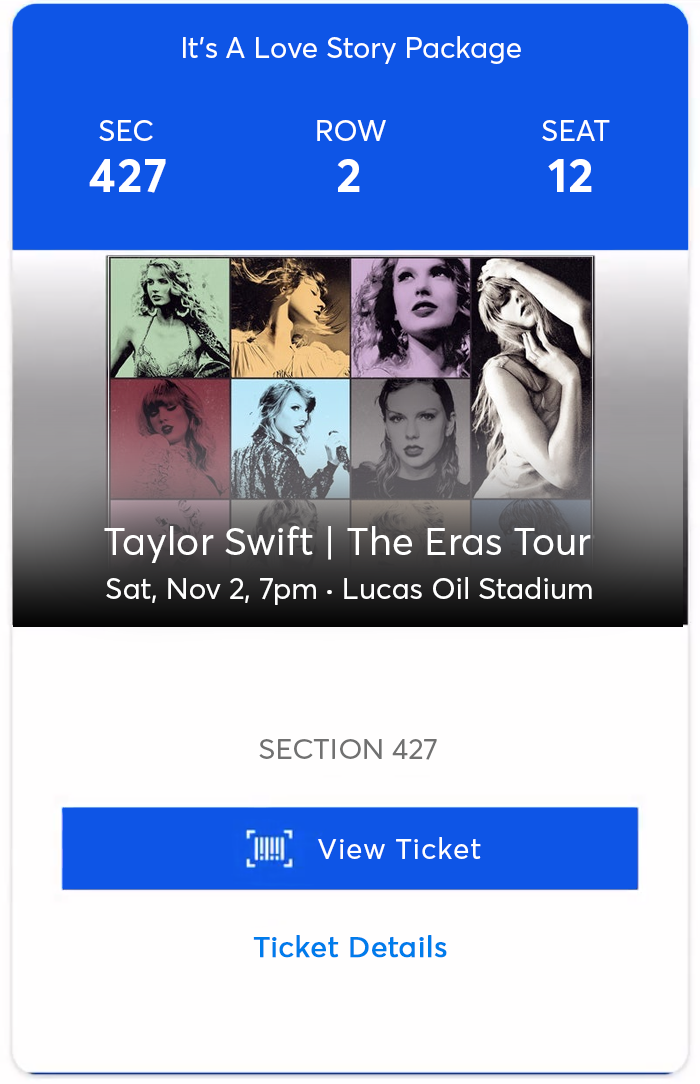
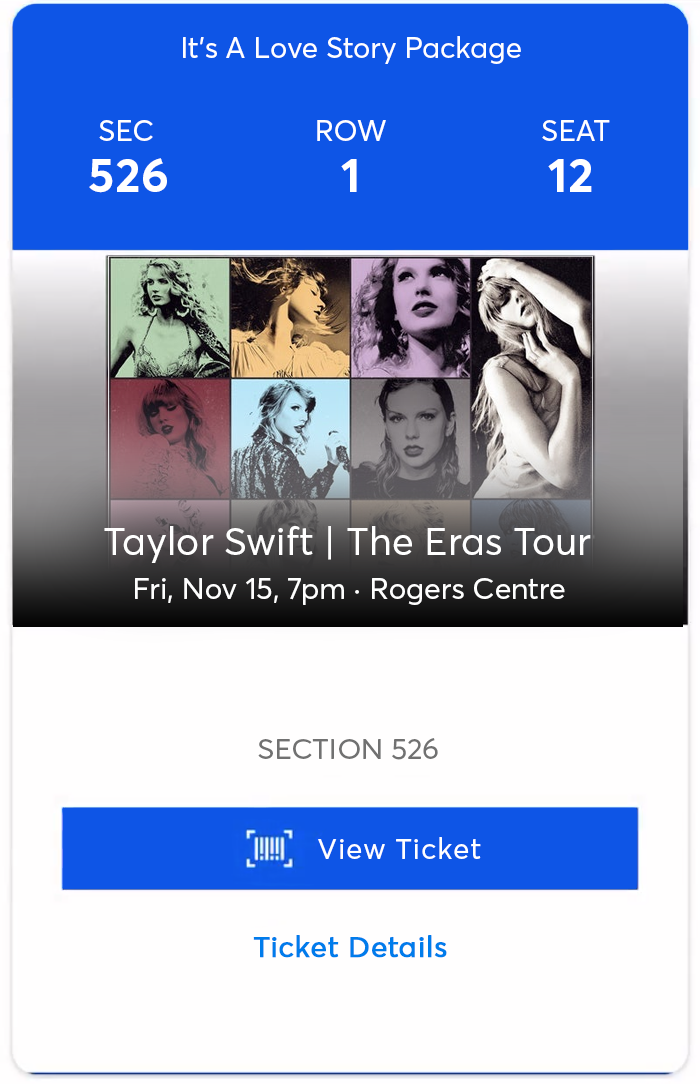
Add files via upload

diff --git a/index.html b/index.html
@@ -90,7 +90,7 @@
      
 
      <div> 
-        <span class="Seat_Numbr"> Sec 427, Row 2 </span> 
+        <span class="Seat_Numbr"> Sec 526, Row 1 </span> 
         <span class="tkt_icon"><img class="tkt_img" src="tkt_icon.png">2 Tickets</span>
 
     </div>          
@@ -118,7 +118,7 @@
      
 
      <div> 
-        <span class="Seat_Numbr"> Sec 427, Row 2 </span> 
+        <span class="Seat_Numbr"> Sec 526, Row 1 </span> 
         <span class="tkt_icon"><img class="tkt_img" src="tkt_icon.png">1 Ticket</span>        
                  <!-- check box -->
 
@@ -186,11 +186,11 @@
               <div class="ticket-details">
                  <div class="detail">
                      <span class="label">Sec</span>
-                     <span class="value">427</span>
+                     <span class="value">521</span>
                </div>
                 <div class="detail">
                      <span class="label">Row</span>
-                     <span class="value">2</span>
+                     <span class="value">1</span>
                </div>
                <div class="detail">
                      <span class="label">Seat</span>
